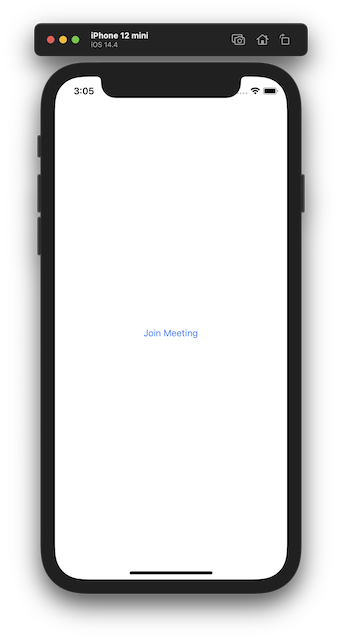
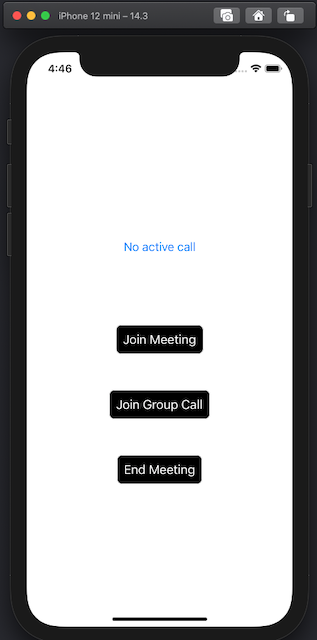
Update API's to support group call (#8)
* Delete Scene delegate to lower app version

* Update sample app API's

* Add button

* Add Group_id

* Add iconConfig sample

* update image for precall

diff --git a/TeamsEmbediOSGettingStarted/ViewController.swift b/TeamsEmbediOSGettingStarted/ViewController.swift
@@ -8,42 +8,83 @@ import UIKit
 import AzureCommunication
 import MeetingUIClient
 
-class ViewController: UIViewController, MeetingUIClientDelegate, MeetingUIClientIdentityProviderDelegate {
-  
+class ViewController: UIViewController, MeetingUIClientDelegate, MeetingUIClientIdentityProviderDelegate, MeetingUIClientUserEventDelegate {
+
     private let acsToken = "<ACS_TOKEN>"
     private let meetingURL = "<MEETING_URL>"
 
+    private let groupCallId = UUID.init(uuidString: "<GROUP_ID>")
+    
     private var meetingUIClient: MeetingUIClient?
+    
+    let statusLabel = UILabel(frame: CGRect(x: 100, y: 100, width: 200, height: 50))
     
     override func viewDidLoad() {
         super.viewDidLoad()
         
-        let button = UIButton(frame: CGRect(x: 100, y: 100, width: 200, height: 50))
-        button.backgroundColor = .black
-        button.setTitle("Join Meeting", for: .normal)
-        button.addTarget(self, action: #selector(joinMeetingTapped), for: .touchUpInside)
+        let joinMeetingButton = Button(text: "Join Meeting")
+        joinMeetingButton.addTarget(self, action: #selector(joinMeetingTapped), for: .touchUpInside)
         
-        button.translatesAutoresizingMaskIntoConstraints = false
-        self.view.addSubview(button)
-        button.centerXAnchor.constraint(equalTo: view.centerXAnchor).isActive = true
-        button.centerYAnchor.constraint(equalTo: view.centerYAnchor).isActive = true
+        joinMeetingButton.translatesAutoresizingMaskIntoConstraints = false
+        self.view.addSubview(joinMeetingButton)
+        joinMeetingButton.centerXAnchor.constraint(equalTo: view.centerXAnchor).isActive = true
+        joinMeetingButton.centerYAnchor.constraint(equalTo: view.centerYAnchor).isActive = true
 
+        statusLabel.textColor = .systemBlue
+        statusLabel.text = "No active call"
+        
+        statusLabel.translatesAutoresizingMaskIntoConstraints = false
+        self.view.addSubview(statusLabel)
+        statusLabel.centerXAnchor.constraint(equalTo: view.centerXAnchor).isActive = true
+        statusLabel.bottomAnchor.constraint(equalTo: joinMeetingButton.topAnchor, constant: -100).isActive = true
+        
+        let joinGroupCallButton = Button(text: "Join Group Call")
+        joinGroupCallButton.addTarget(self, action: #selector(joinGroupCallTapped), for: .touchUpInside)
+        
+        joinGroupCallButton.translatesAutoresizingMaskIntoConstraints = false
+        self.view.addSubview(joinGroupCallButton)
+        joinGroupCallButton.centerXAnchor.constraint(equalTo: view.centerXAnchor).isActive = true
+        joinGroupCallButton.topAnchor.constraint(equalTo: joinMeetingButton.bottomAnchor, constant: 50).isActive = true
+        
+        let endMeetingButton = Button(text: "End Meeting")
+        endMeetingButton.addTarget(self, action: #selector(endMeetingTapped), for: .touchUpInside)
+        
+        endMeetingButton.translatesAutoresizingMaskIntoConstraints = false
+        self.view.addSubview(endMeetingButton)
+        endMeetingButton.centerXAnchor.constraint(equalTo: view.centerXAnchor).isActive = true
+        endMeetingButton.topAnchor.constraint(equalTo: joinGroupCallButton.bottomAnchor, constant: 50).isActive = true
+        
         do {
             let communicationTokenRefreshOptions = CommunicationTokenRefreshOptions(initialToken: acsToken, refreshProactively: true, tokenRefresher: fetchTokenAsync(completionHandler:))
-            let credential = try CommunicationTokenCredential(with: communicationTokenRefreshOptions)
+            let credential = try CommunicationTokenCredential(withOptions: communicationTokenRefreshOptions)
             meetingUIClient = MeetingUIClient(with: credential)
             meetingUIClient?.meetingUIClientDelegate = self
+            meetingUIClient?.set(iconConfig: self.getIconConfig())
         }
         catch {
             print("Failed to create communication token credential")
         }
     }
 
+    func getIconConfig() -> Dictionary<MeetingUIClientIconType, String> {
+        var iconConfig = Dictionary<MeetingUIClientIconType, String>()
+        iconConfig.updateValue("mic_off", forKey: MeetingUIClientIconType.MicOff)
+        return iconConfig
+    }
+    
     @IBAction func joinMeetingTapped(_ sender: UIButton) {
         joinMeeting()
     }
     
-    private func fetchTokenAsync(completionHandler: @escaping TokenRefreshOnCompletion) {
+    @IBAction func joinGroupCallTapped(_ sender: UIButton) {
+        joinGroupCall()
+    }
+    
+    @IBAction func endMeetingTapped(_ sender: UIButton) {
+        endMeeting()
+    }
+    
+    private func fetchTokenAsync(completionHandler: @escaping TokenRefreshHandler) {
         func getTokenFromServer(completionHandler: @escaping (String) -> Void) {
             completionHandler(self.acsToken)
         }
@@ -54,23 +95,58 @@ class ViewController: UIViewController, MeetingUIClientDelegate, MeetingUIClient
     
     private func joinMeeting() {
         meetingUIClient?.meetingUIClientIdentityProviderDelegate = self
-        let meetingJoinOptions = MeetingJoinOptions(displayName: "John Smith")
-        meetingUIClient?.join(meetingUrl: meetingURL, meetingJoinOptions: meetingJoinOptions, completionHandler: { (error: Error?) in
+        meetingUIClient?.meetingUIClientUserEventDelegate = self
+        let meetingJoinOptions = MeetingUIClientMeetingJoinOptions(displayName: "John Smith", enablePhotoSharing: true, enableNamePlateOptionsClickDelegate: true)
+        let meetingLocator = MeetingUIClientTeamsMeetingLinkLocator(meetingLink: self.meetingURL)
+        meetingUIClient?.join(meetingLocator: meetingLocator, joinCallOptions: meetingJoinOptions, completionHandler: { (error: Error?) in
             if (error != nil) {
                 print("Join meeting failed: \(error!)")
+            }
+            else {
+                self.statusLabel.text = "Started to join ..."
             }
         })
     }
     
-    func meetingUIClient(didUpdateCallState callState: CallState) {
+    private func joinGroupCall() {
+        meetingUIClient?.meetingUIClientIdentityProviderDelegate = self
+        meetingUIClient?.meetingUIClientUserEventDelegate = self
+        let groupJoinOptions = MeetingUIClientGroupCallJoinOptions(displayName: "John Smith", enablePhotoSharing: true, enableNamePlateOptionsClickDelegate: true, shouldEnablePreJoinView: true)
+        let groupLocator = MeetingUIClientGroupCallLocator(groupId: self.groupCallId!)
+        meetingUIClient?.join(meetingLocator: groupLocator, joinCallOptions: groupJoinOptions, completionHandler: { (error: Error?) in
+            if (error != nil) {
+                print("Join meeting failed: \(error!)")
+            }
+            else {
+                self.statusLabel.text = "Started to join ..."
+            }
+        })
+    }
+    
+    private func endMeeting() {
+        meetingUIClient?.endMeeting(completionHandler: { (error: Error?) in
+            if (error != nil) {
+                print("End meeting failed: \(error!)")
+            }
+            else {
+                self.statusLabel.text = "Ending call ..."
+            }
+        })
+    }
+    
+    func meetingUIClient(didUpdateCallState callState: MeetingUIClientCallState) {
         switch callState {
         case .connecting:
+            self.statusLabel.text = "Connecting"
             print("Call state has changed to 'Connecting'")
         case .connected:
+            self.statusLabel .text = "Connected"
             print("Call state has changed to 'Connected'")
         case .waitingInLobby:
+            self.statusLabel .text = "In Lobby"
             print("Call state has changed to 'Waiting in Lobby'")
         case .ended:
+            self.statusLabel .text = "No active call"
             print("Call state has changed to 'Ended'")
         @unknown default:
             print("Unsupported state")
@@ -101,4 +177,23 @@ class ViewController: UIViewController, MeetingUIClientDelegate, MeetingUIClient
             completionHandler(nil)
         }
     }
+    
+    func displayNameFor(userIdentifier: String, completionHandler: @escaping (String?) -> Void) {
+        if (userIdentifier.starts(with: "8:acs:")) {
+            let displayName = "Acs User"
+            completionHandler(displayName)
+        }
+    }
+    
+    func subTitleFor(userIdentifier: String, completionHandler: @escaping (String?) -> Void) {
+        if (userIdentifier.starts(with: "8:acs:")) {
+            let displayName = "ACS Subtitle Example"
+            completionHandler(displayName)
+        }
+    }
+ 
+    func onNamePlateOptionsClicked(userIdentifier: String) {
+        print("Name plate options clicked")
+    }
+    
 }

diff --git a/TeamsEmbediOSGettingStarted/AppDelegate.swift b/TeamsEmbediOSGettingStarted/AppDelegate.swift
@@ -16,20 +16,5 @@ class AppDelegate: UIResponder, UIApplicationDelegate {
         return true
     }
 
-    // MARK: UISceneSession Lifecycle
-
-    func application(_ application: UIApplication, configurationForConnecting connectingSceneSession: UISceneSession, options: UIScene.ConnectionOptions) -> UISceneConfiguration {
-        // Called when a new scene session is being created.
-        // Use this method to select a configuration to create the new scene with.
-        return UISceneConfiguration(name: "Default Configuration", sessionRole: connectingSceneSession.role)
-    }
-
-    func application(_ application: UIApplication, didDiscardSceneSessions sceneSessions: Set<UISceneSession>) {
-        // Called when the user discards a scene session.
-        // If any sessions were discarded while the application was not running, this will be called shortly after application:didFinishLaunchingWithOptions.
-        // Use this method to release any resources that were specific to the discarded scenes, as they will not return.
-    }
-
-
 }
 

diff --git a/TeamsEmbediOSGettingStarted/Button.swift b/TeamsEmbediOSGettingStarted/Button.swift
@@ -1,0 +1,25 @@
+//
+//  Button.swift
+//  TeamsEmbediOSGettingStarted
+//
+//  Created by Raimond Sinivee on 4/14/21.
+//
+
+import UIKit
+
+class Button : UIButton {
+    
+    public init(text: String) {
+        super .init(frame: CGRect(x: 100, y: 100, width: 200, height: 50))
+        self.backgroundColor = .black
+        self.setTitle(text, for: .normal)
+        self.layer.cornerRadius = 8.0
+        self.layer.borderWidth = 1.0
+        self.layer.borderColor = UIColor.white.cgColor
+        self.contentEdgeInsets = UIEdgeInsets(top: 10, left: 10, bottom: 10, right: 10)
+    }
+    
+    required init?(coder: NSCoder) {
+        fatalError("init(coder:) has not been implemented")
+    }
+}

diff --git a/README.md b/README.md
@@ -24,10 +24,15 @@ The following classes and interfaces used in the quickstart handle some of the m
 | Name                                  | Description                                                  |
 | ------------------------------------- | ------------------------------------------------------------ |
 | MeetingUIClient | The MeetingUIClient is the main entry point to the Teams Embed library. |
+| MeetingUIClientMeetingJoinOptions | MeetingUIClientMeetingJoinOptions are used for configurable options such as display name. |
+| MeetingUIClientGroupCallJoinOptions | MeetingUIClientMeetingJoinOptions are used for configurable options such as display name. |
+| MeetingUIClientTeamsMeetingLinkLocator | MeetingUIClientTeamsMeetingLinkLocator is used to set the meeting URL for joining a meeting. |
+| MeetingUIClientGroupCallLocator | MeetingUIClientGroupCallLocator is used for setting the group id to join. |
+| MeetingUIClientCallState | The CallState is used to for reporting call state changes. The options are as follows: connecting, waitingInLobby, connected, and ended. |
 | MeetingUIClientDelegate | The MeetingUIClientDelegate is used to receive events, such as changes in call state. |
-| MeetingUIClientIdentityProviderDelegate | The MeetingUIClientIdentityProviderDelegate is used to map avatars to users in a meeting. |
-| MeetingJoinOptions | MeetingJoinOptions are used for configurable options such as display name. |
-| CallState | The CallState is used to for reporting call state changes. The options are as follows: connecting, waitingInLobby, connected, and ended. |
+| MeetingUIClientIdentityProviderDelegate | The MeetingUIClientIdentityProviderDelegate is used to map user details to the users in a meeting. |
+| MeetingUIClientUserEventDelegate | The MeetingUIClientUserEventDelegate is used provide delegate calls in case user has click in the UI on specific elements. |
+
 
 ## Before running sample code
 
@@ -35,10 +40,11 @@ The following classes and interfaces used in the quickstart handle some of the m
 2. `git clone https://github.com/Azure-Samples/teams-embed-ios-getting-started`
 3. Run `Pod Install` in your project root.
 4. Open TeamsEmbediOSGettingStarted.xcworkspace
-5. Copy the `TeamsAppSDK.framework` and the `MeetingUIClient.framework` to the `Frameworks` folder in the project root
+5. Copy the `TeamsAppSDK.framework`, the `MeetingUIClient.framework` and other frameworks provided in the release bundle to the `Frameworks` folder in the project root
 6. Select development team under Signing and Capabilities.
 7. With the `Access Token` procured in pre-requisites, in the **TeamsEmbediOSGettingStarted/ViewController.swift** file, replace `<USER_ACCESS_TOKEN>`.
-8. In the **TeamsEmbediOSGettingStarted/ViewController.swift** file, replace `<MEETING_URL>` with your a teams meeting url.
+8. In the **TeamsEmbediOSGettingStarted/ViewController.swift** file, replace `<MEETING_URL>` with your a Microsoft Teams meeting url.
+9. In the **TeamsEmbediOSGettingStarted/ViewController.swift** file, replace `<GROUP_ID>` with your a goup id UUID.
 
 ## Run the sample
 
